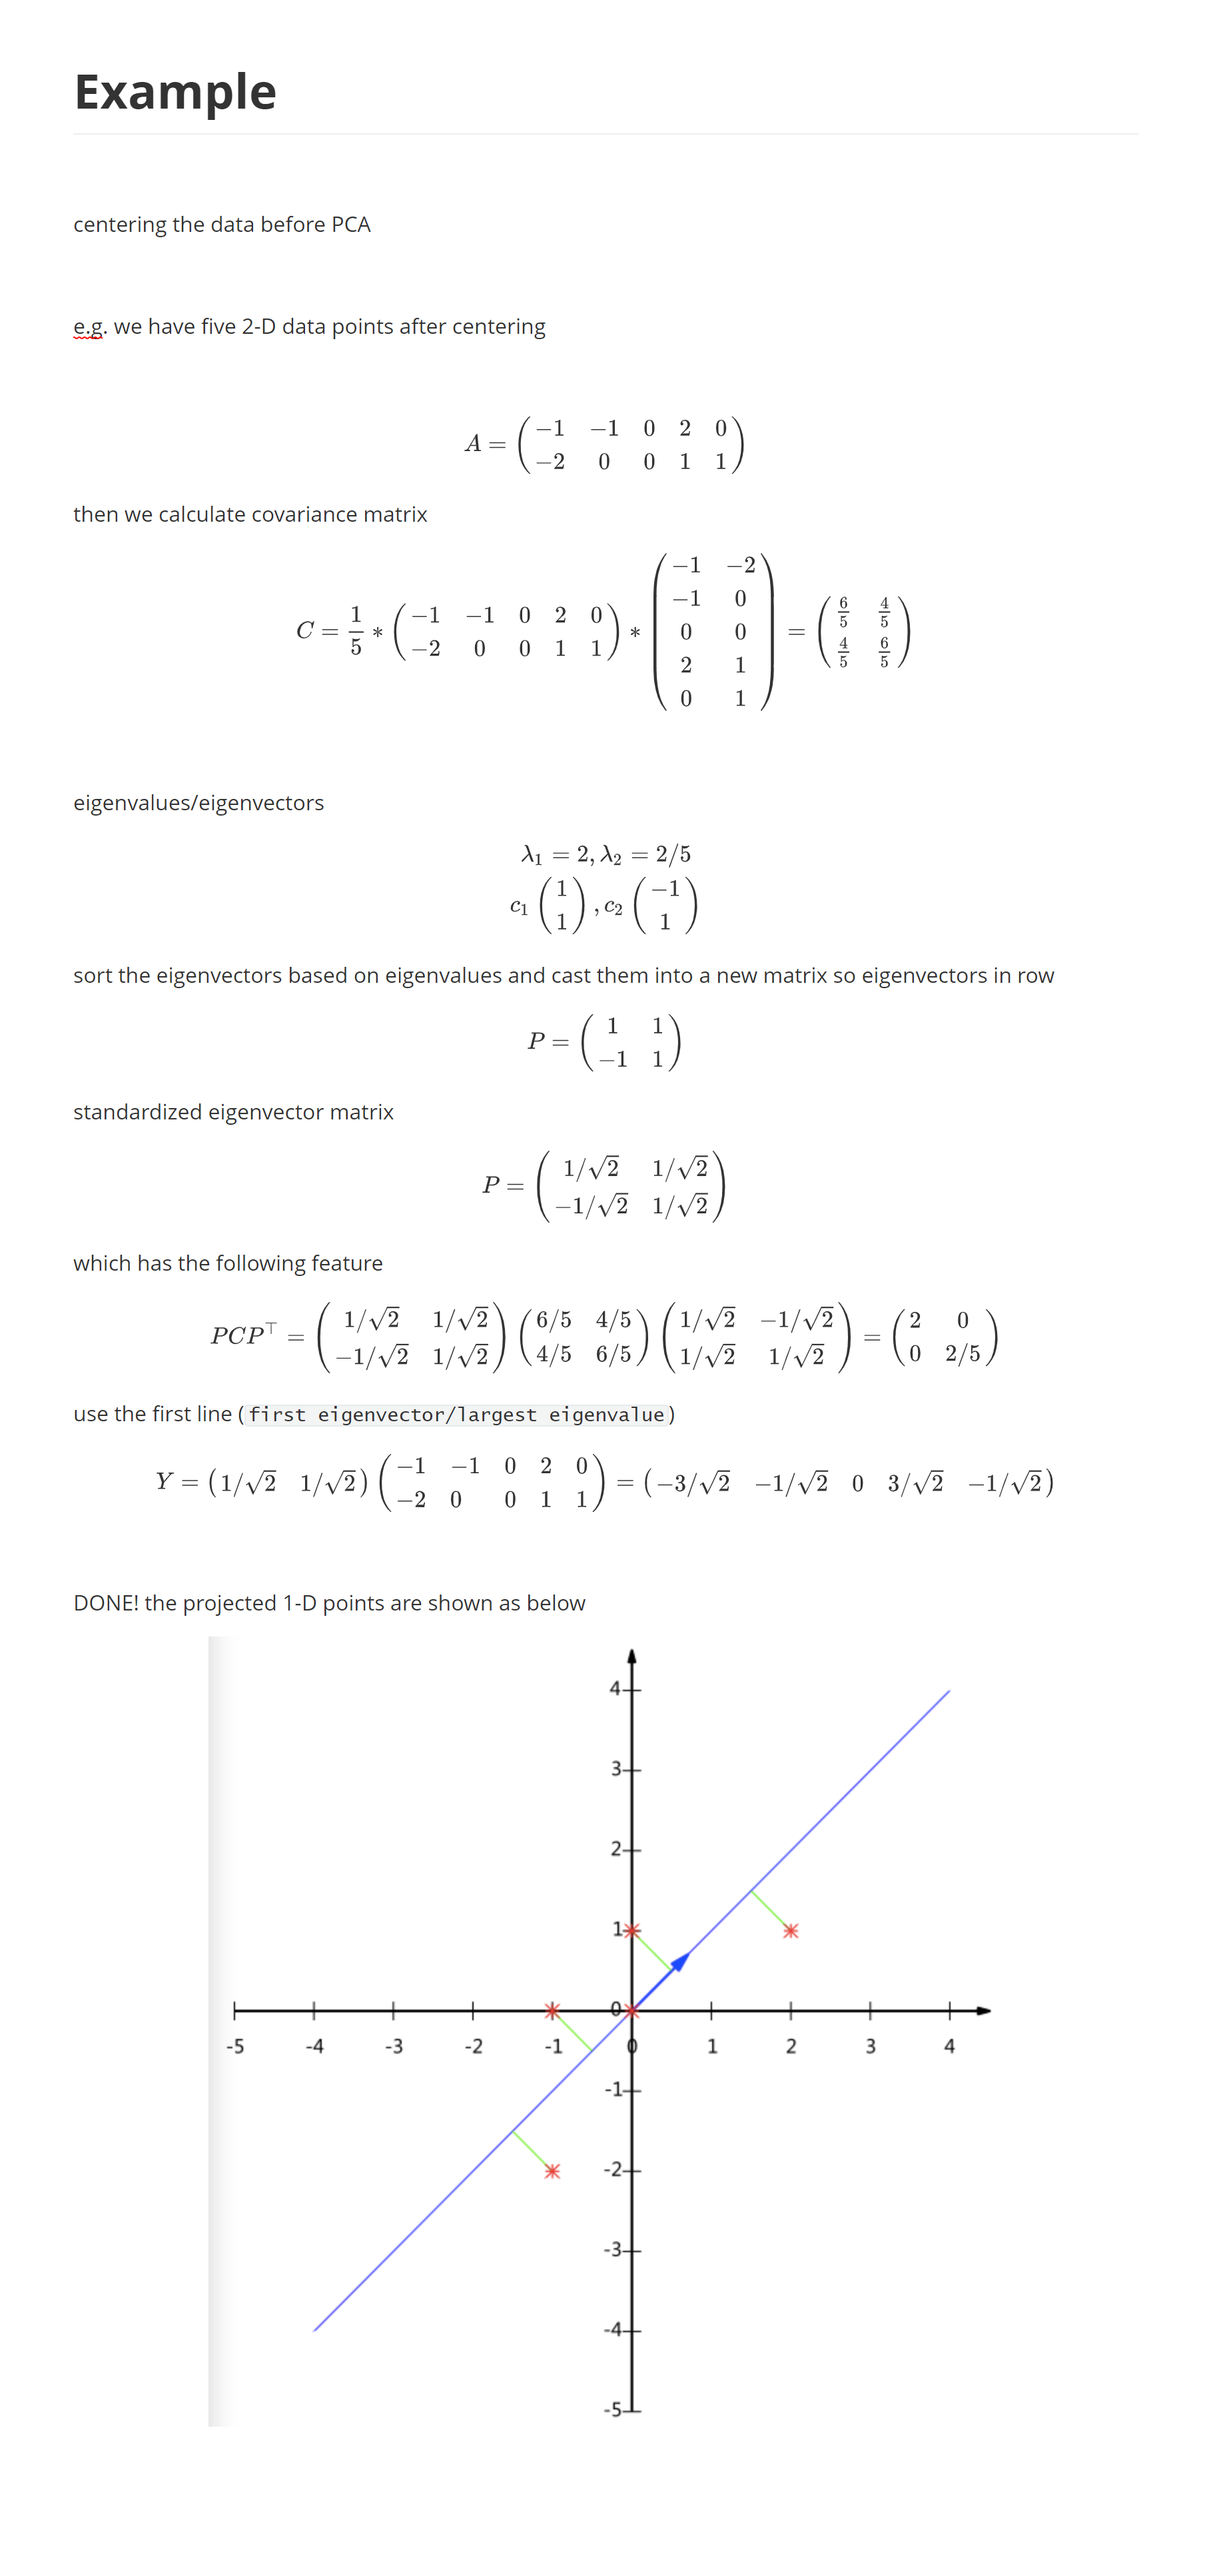
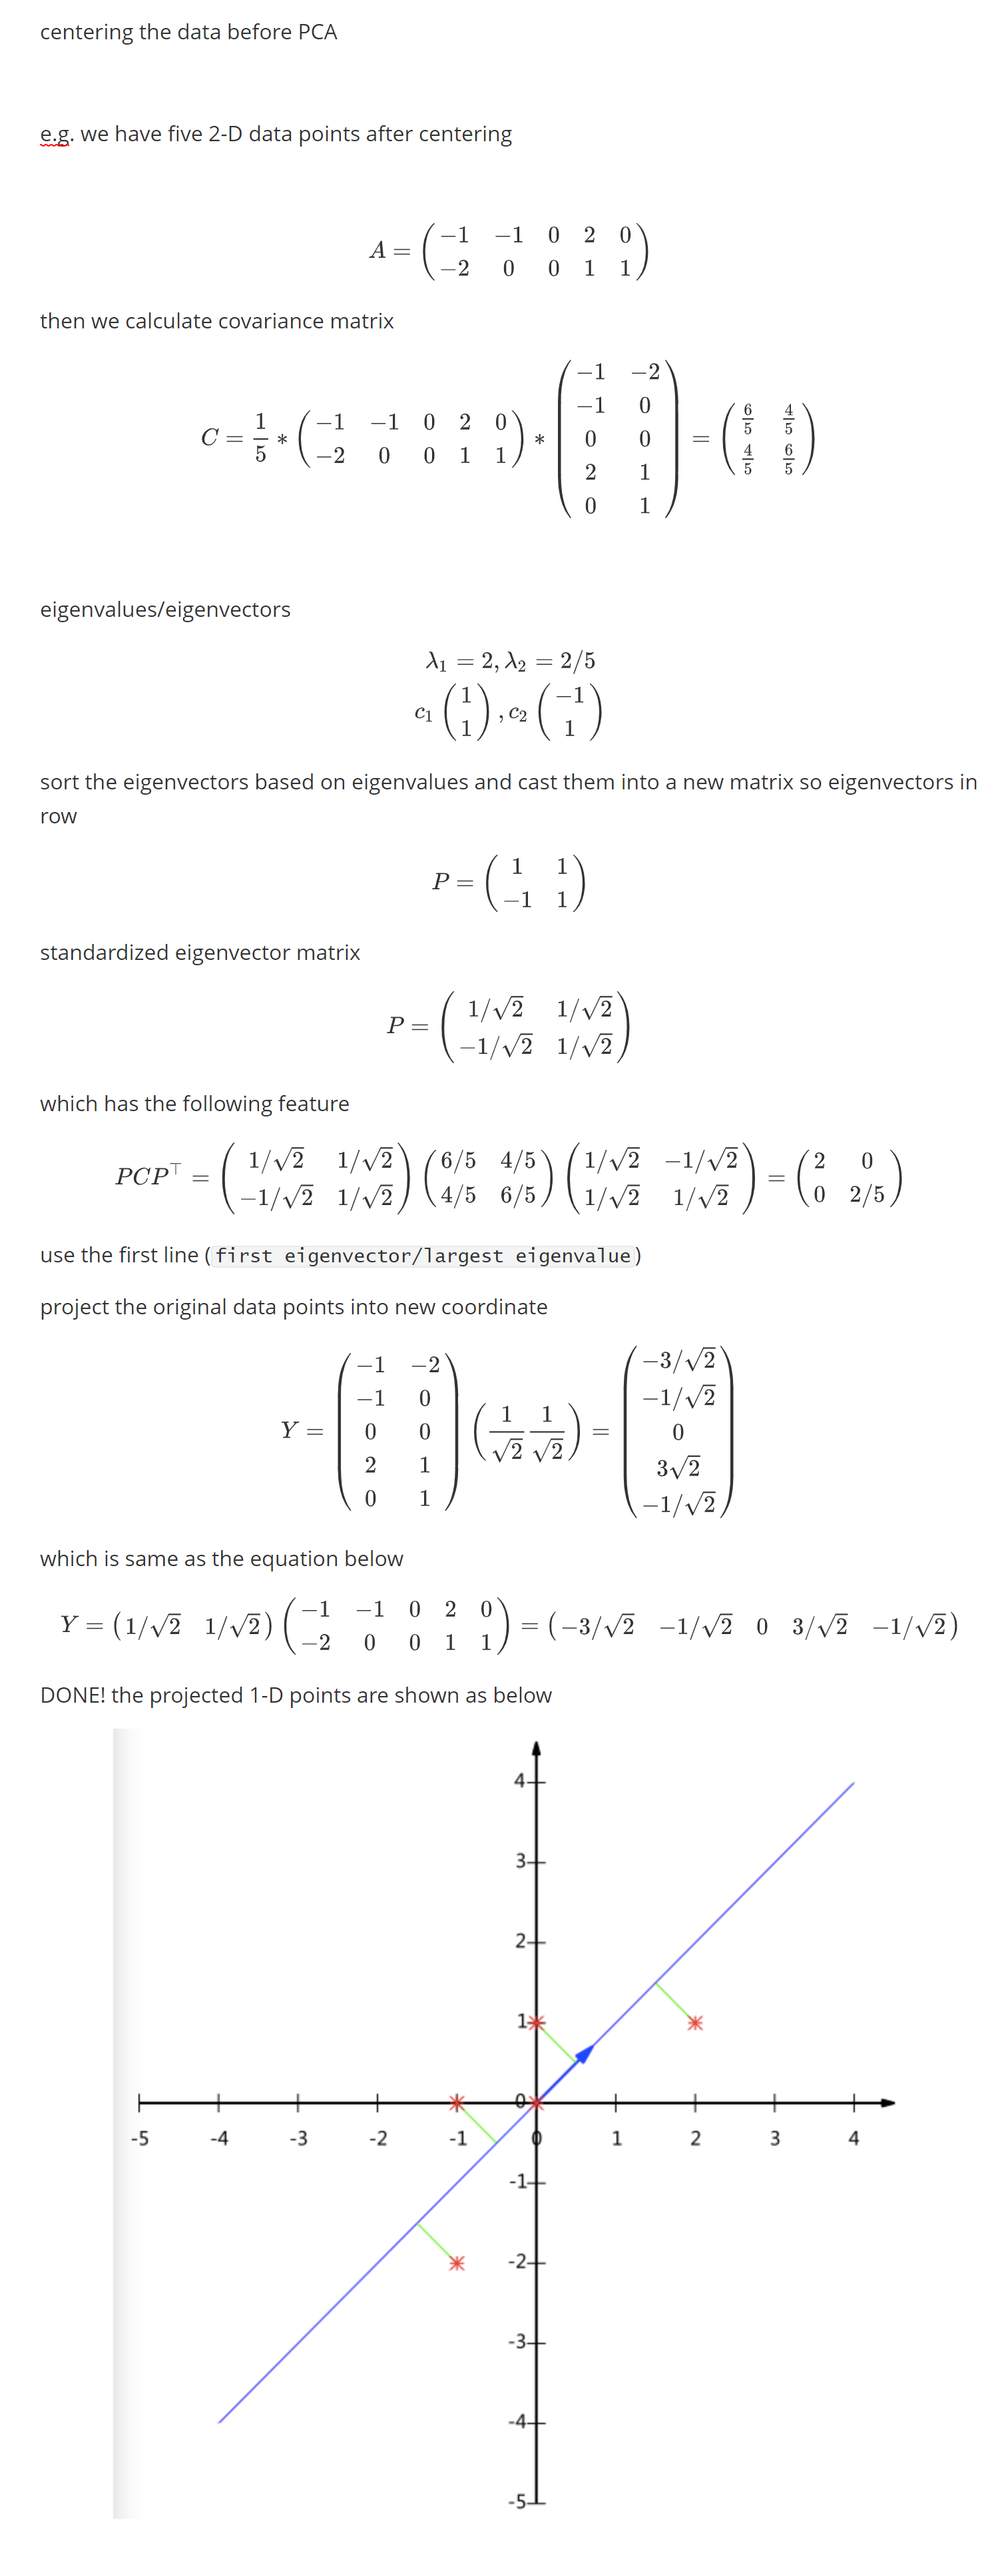
Luchao's auto-commitment using shell script

diff --git a/PCA/Example.md b/PCA/Example.md
@@ -1,7 +1,5 @@
 # Example
 
-
-
 centering the data before PCA
 
 
@@ -63,20 +61,13 @@ use the first line (`first eigenvector/largest eigenvalue`)
 
 project the original data points into new coordinate
 $$
-Y = \begin{pmatrix}
--1 & -2 \\
--1 & 0 \\
-0 & 0 \\
-2 & 1 \\
-0 & 1
-\end{pmatrix}\left( \dfrac {1}{\sqrt {2}}\dfrac {1}{\sqrt {2}}\right) = \begin{pmatrix}
--3/\sqrt {2} \\
--1/\sqrt {2} \\
-0 \\
-3\sqrt {2} \\
--1/\sqrt {2}
-\end{pmatrix}
+Y = \begin{pmatrix}-1 & -2 \\-1 & 0 \\0 & 0 \\2 & 1 \\0 & 1\end{pmatrix}\left( \dfrac {1}{\sqrt {2}}\dfrac {1}{\sqrt {2}}\right) = \begin{pmatrix}-3/\sqrt {2} \\-1/\sqrt {2} \\0 \\3\sqrt {2} \\-1/\sqrt {2}\end{pmatrix}
+$$
+which is same as the equation below
+$$
+Y=\left(\begin{array}{cc}{1 / \sqrt{2}} & {1 / \sqrt{2}}\end{array}\right)\left(\begin{array}{ccccc}{-1} & {-1} & {0} & {2} & {0} \\ {-2} & {0} & {0} & {1} & {1}\end{array}\right)=\left(\begin{array}{cccc}{-3 / \sqrt{2}} & {-1 / \sqrt{2}} & {0} & {3 / \sqrt{2}} & {-1 / \sqrt{2}}\end{array}\right)
 $$
 DONE! the projected 1-D points are shown as below
 
 ![](http://blog.codinglabs.org/uploads/pictures/pca-tutorial/07.png)
+
